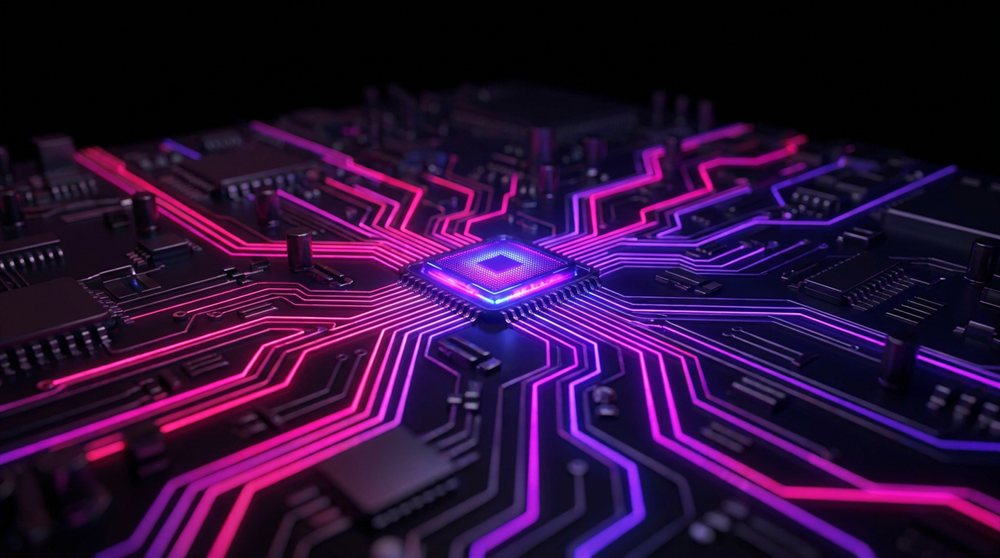
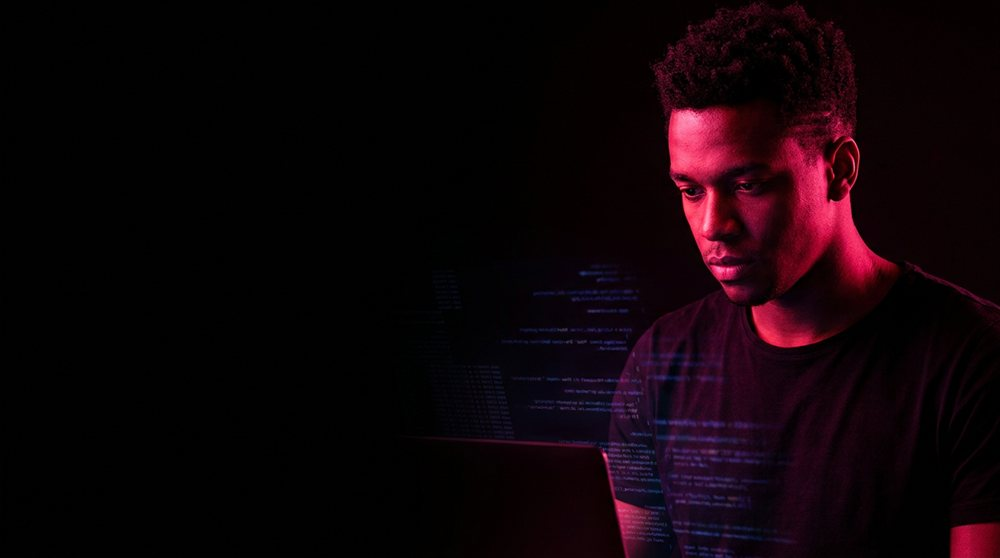
Pos Tech: capas no estilo do KV da FIAP (pessoa, luz avermelhada, fundo preto)

diff --git a/pos-tech.html b/pos-tech.html
@@ -21,7 +21,7 @@
 <link rel="stylesheet" href="assets/css/hero-card.css?v=3">
 <link rel="stylesheet" href="assets/css/cards-formacao.css?v=12">
 <link rel="stylesheet" href="assets/css/certificado.css?v=5">
-<link rel="stylesheet" href="assets/css/pos.css?v=14">
+<link rel="stylesheet" href="assets/css/pos.css?v=15">
 <script type="application/ld+json">
 {"@context":"https://schema.org","@graph":[
  {"@type":"BreadcrumbList","itemListElement":[
@@ -80,9 +80,9 @@
       <p class="lead">As três têm a mesma estrutura: 10 meses, 360 horas, projeto prático e certificado reconhecido pelo MEC. Escolha pelo momento da sua carreira.</p>
     </div>
     <div class="trio pos-trio" data-nota="Cada pós ganha a sua página no modelo de produto (como a Formação), em /pos-tech/digital-product-management/ e assim por diante. Capas geradas no Magnific (pessoas fictícias). A antiga tabela comparativa foi incorporada aos cards (para quem / ao concluir).">
-      <a class="f-card pos-card reveal" href="#"><div class="f-vis" style="background-image:url('assets/capas/pos/dpm.jpg?v=2')" aria-hidden="true"></div><div class="f-body"><div class="top"><span class="tag tag-area">Pós-graduação</span><span class="pc-n">01</span></div><h3>Digital Product Management</h3><p>Gerencie todas as fases do ciclo de vida de um produto digital, do conceito à execução, com IA, no-code e low-code.</p><dl class="pc-dl"><div><dt>Para quem</dt><dd>Profissionais de qualquer área e empreendedores</dd></div><div><dt>Ao concluir</dt><dd>Criar e evoluir produtos, de MVPs ao growth</dd></div></dl><ul class="f-facts"><li><svg viewBox="0 0 16 16" fill="none" stroke="currentColor" stroke-width="1.6" aria-hidden="true"><circle cx="8" cy="8" r="6.2"/><path d="M8 4.6V8l2.4 1.6"/></svg>10 meses · 360h</li><li><svg viewBox="0 0 16 16" fill="none" stroke="currentColor" stroke-width="1.6" aria-hidden="true"><circle cx="8" cy="6.2" r="4.2"/><path d="m5.6 9.6-1.1 4.8L8 12.8l3.5 1.6-1.1-4.8"/></svg>Certificado MEC</li></ul><div class="meta"><span>Ver a pós</span><span class="go"><svg viewBox="0 0 16 16" fill="none" stroke="currentColor" stroke-width="2"><path d="M2 8h11M9 4l4 4-4 4"/></svg></span></div></div></a>
-      <a class="f-card pos-card reveal" data-d="1" href="#"><div class="f-vis" style="background-image:url('assets/capas/pos/ia.jpg?v=2')" aria-hidden="true"></div><div class="f-body"><div class="top"><span class="tag tag-area">Pós-graduação</span><span class="pc-n">02</span></div><h3>IA para Negócios</h3><p>Gestão estratégica e liderança: visão integrada de negócios, inovação com IA e times de alta performance.</p><dl class="pc-dl"><div><dt>Para quem</dt><dd>Quem já ocupa ou quer ocupar cargos de liderança</dd></div><div><dt>Ao concluir</dt><dd>Decidir e liderar com visão estratégica</dd></div></dl><ul class="f-facts"><li><svg viewBox="0 0 16 16" fill="none" stroke="currentColor" stroke-width="1.6" aria-hidden="true"><circle cx="8" cy="8" r="6.2"/><path d="M8 4.6V8l2.4 1.6"/></svg>10 meses · 360h</li><li><svg viewBox="0 0 16 16" fill="none" stroke="currentColor" stroke-width="1.6" aria-hidden="true"><circle cx="8" cy="6.2" r="4.2"/><path d="m5.6 9.6-1.1 4.8L8 12.8l3.5 1.6-1.1-4.8"/></svg>Certificado MEC</li></ul><div class="meta"><span>Ver a pós</span><span class="go"><svg viewBox="0 0 16 16" fill="none" stroke="currentColor" stroke-width="2"><path d="M2 8h11M9 4l4 4-4 4"/></svg></span></div></div></a>
-      <a class="f-card pos-card reveal" data-d="2" href="#"><div class="f-vis" style="background-image:url('assets/capas/pos/tech.jpg?v=2')" aria-hidden="true"></div><div class="f-body"><div class="top"><span class="tag tag-area">Pós-graduação</span><span class="pc-n">03</span></div><h3>Tech Management</h3><p>Comunicação, negociação e liderança de times para conectar tecnologia a valor de negócio.</p><dl class="pc-dl"><div><dt>Para quem</dt><dd>Quem quer se tornar Tech Lead</dd></div><div><dt>Ao concluir</dt><dd>Conectar tecnologia e valor de negócio</dd></div></dl><ul class="f-facts"><li><svg viewBox="0 0 16 16" fill="none" stroke="currentColor" stroke-width="1.6" aria-hidden="true"><circle cx="8" cy="8" r="6.2"/><path d="M8 4.6V8l2.4 1.6"/></svg>10 meses · 360h</li><li><svg viewBox="0 0 16 16" fill="none" stroke="currentColor" stroke-width="1.6" aria-hidden="true"><circle cx="8" cy="6.2" r="4.2"/><path d="m5.6 9.6-1.1 4.8L8 12.8l3.5 1.6-1.1-4.8"/></svg>Certificado MEC</li></ul><div class="meta"><span>Ver a pós</span><span class="go"><svg viewBox="0 0 16 16" fill="none" stroke="currentColor" stroke-width="2"><path d="M2 8h11M9 4l4 4-4 4"/></svg></span></div></div></a>
+      <a class="f-card pos-card reveal" href="#"><div class="f-vis" style="background-image:url('assets/capas/pos/dpm.jpg?v=3')" aria-hidden="true"></div><div class="f-body"><div class="top"><span class="tag tag-area">Pós-graduação</span><span class="pc-n">01</span></div><h3>Digital Product Management</h3><p>Gerencie todas as fases do ciclo de vida de um produto digital, do conceito à execução, com IA, no-code e low-code.</p><dl class="pc-dl"><div><dt>Para quem</dt><dd>Profissionais de qualquer área e empreendedores</dd></div><div><dt>Ao concluir</dt><dd>Criar e evoluir produtos, de MVPs ao growth</dd></div></dl><ul class="f-facts"><li><svg viewBox="0 0 16 16" fill="none" stroke="currentColor" stroke-width="1.6" aria-hidden="true"><circle cx="8" cy="8" r="6.2"/><path d="M8 4.6V8l2.4 1.6"/></svg>10 meses · 360h</li><li><svg viewBox="0 0 16 16" fill="none" stroke="currentColor" stroke-width="1.6" aria-hidden="true"><circle cx="8" cy="6.2" r="4.2"/><path d="m5.6 9.6-1.1 4.8L8 12.8l3.5 1.6-1.1-4.8"/></svg>Certificado MEC</li></ul><div class="meta"><span>Ver a pós</span><span class="go"><svg viewBox="0 0 16 16" fill="none" stroke="currentColor" stroke-width="2"><path d="M2 8h11M9 4l4 4-4 4"/></svg></span></div></div></a>
+      <a class="f-card pos-card reveal" data-d="1" href="#"><div class="f-vis" style="background-image:url('assets/capas/pos/ia.jpg?v=3')" aria-hidden="true"></div><div class="f-body"><div class="top"><span class="tag tag-area">Pós-graduação</span><span class="pc-n">02</span></div><h3>IA para Negócios</h3><p>Gestão estratégica e liderança: visão integrada de negócios, inovação com IA e times de alta performance.</p><dl class="pc-dl"><div><dt>Para quem</dt><dd>Quem já ocupa ou quer ocupar cargos de liderança</dd></div><div><dt>Ao concluir</dt><dd>Decidir e liderar com visão estratégica</dd></div></dl><ul class="f-facts"><li><svg viewBox="0 0 16 16" fill="none" stroke="currentColor" stroke-width="1.6" aria-hidden="true"><circle cx="8" cy="8" r="6.2"/><path d="M8 4.6V8l2.4 1.6"/></svg>10 meses · 360h</li><li><svg viewBox="0 0 16 16" fill="none" stroke="currentColor" stroke-width="1.6" aria-hidden="true"><circle cx="8" cy="6.2" r="4.2"/><path d="m5.6 9.6-1.1 4.8L8 12.8l3.5 1.6-1.1-4.8"/></svg>Certificado MEC</li></ul><div class="meta"><span>Ver a pós</span><span class="go"><svg viewBox="0 0 16 16" fill="none" stroke="currentColor" stroke-width="2"><path d="M2 8h11M9 4l4 4-4 4"/></svg></span></div></div></a>
+      <a class="f-card pos-card reveal" data-d="2" href="#"><div class="f-vis" style="background-image:url('assets/capas/pos/tech.jpg?v=3')" aria-hidden="true"></div><div class="f-body"><div class="top"><span class="tag tag-area">Pós-graduação</span><span class="pc-n">03</span></div><h3>Tech Management</h3><p>Comunicação, negociação e liderança de times para conectar tecnologia a valor de negócio.</p><dl class="pc-dl"><div><dt>Para quem</dt><dd>Quem quer se tornar Tech Lead</dd></div><div><dt>Ao concluir</dt><dd>Conectar tecnologia e valor de negócio</dd></div></dl><ul class="f-facts"><li><svg viewBox="0 0 16 16" fill="none" stroke="currentColor" stroke-width="1.6" aria-hidden="true"><circle cx="8" cy="8" r="6.2"/><path d="M8 4.6V8l2.4 1.6"/></svg>10 meses · 360h</li><li><svg viewBox="0 0 16 16" fill="none" stroke="currentColor" stroke-width="1.6" aria-hidden="true"><circle cx="8" cy="6.2" r="4.2"/><path d="m5.6 9.6-1.1 4.8L8 12.8l3.5 1.6-1.1-4.8"/></svg>Certificado MEC</li></ul><div class="meta"><span>Ver a pós</span><span class="go"><svg viewBox="0 0 16 16" fill="none" stroke="currentColor" stroke-width="2"><path d="M2 8h11M9 4l4 4-4 4"/></svg></span></div></div></a>
     </div>
   </div>
 </section>

diff --git a/assets/css/pos.css b/assets/css/pos.css
@@ -261,3 +261,4 @@
 @media (min-width:861px){ .cx-hero.cx-pos::before{background-image:url('../img/certificado-pos-veludo-crop.jpg?v=2')} }
 @media (max-width:860px){ .cx-hero.cx-pos::before{background-image:url('../img/certificado-pos-veludo-crop.jpg?v=2')} }
 .pos-dark .pos-card .f-vis{background-position:center}
+.pos-dark .pos-card .f-vis{background-position:72% 30%}
